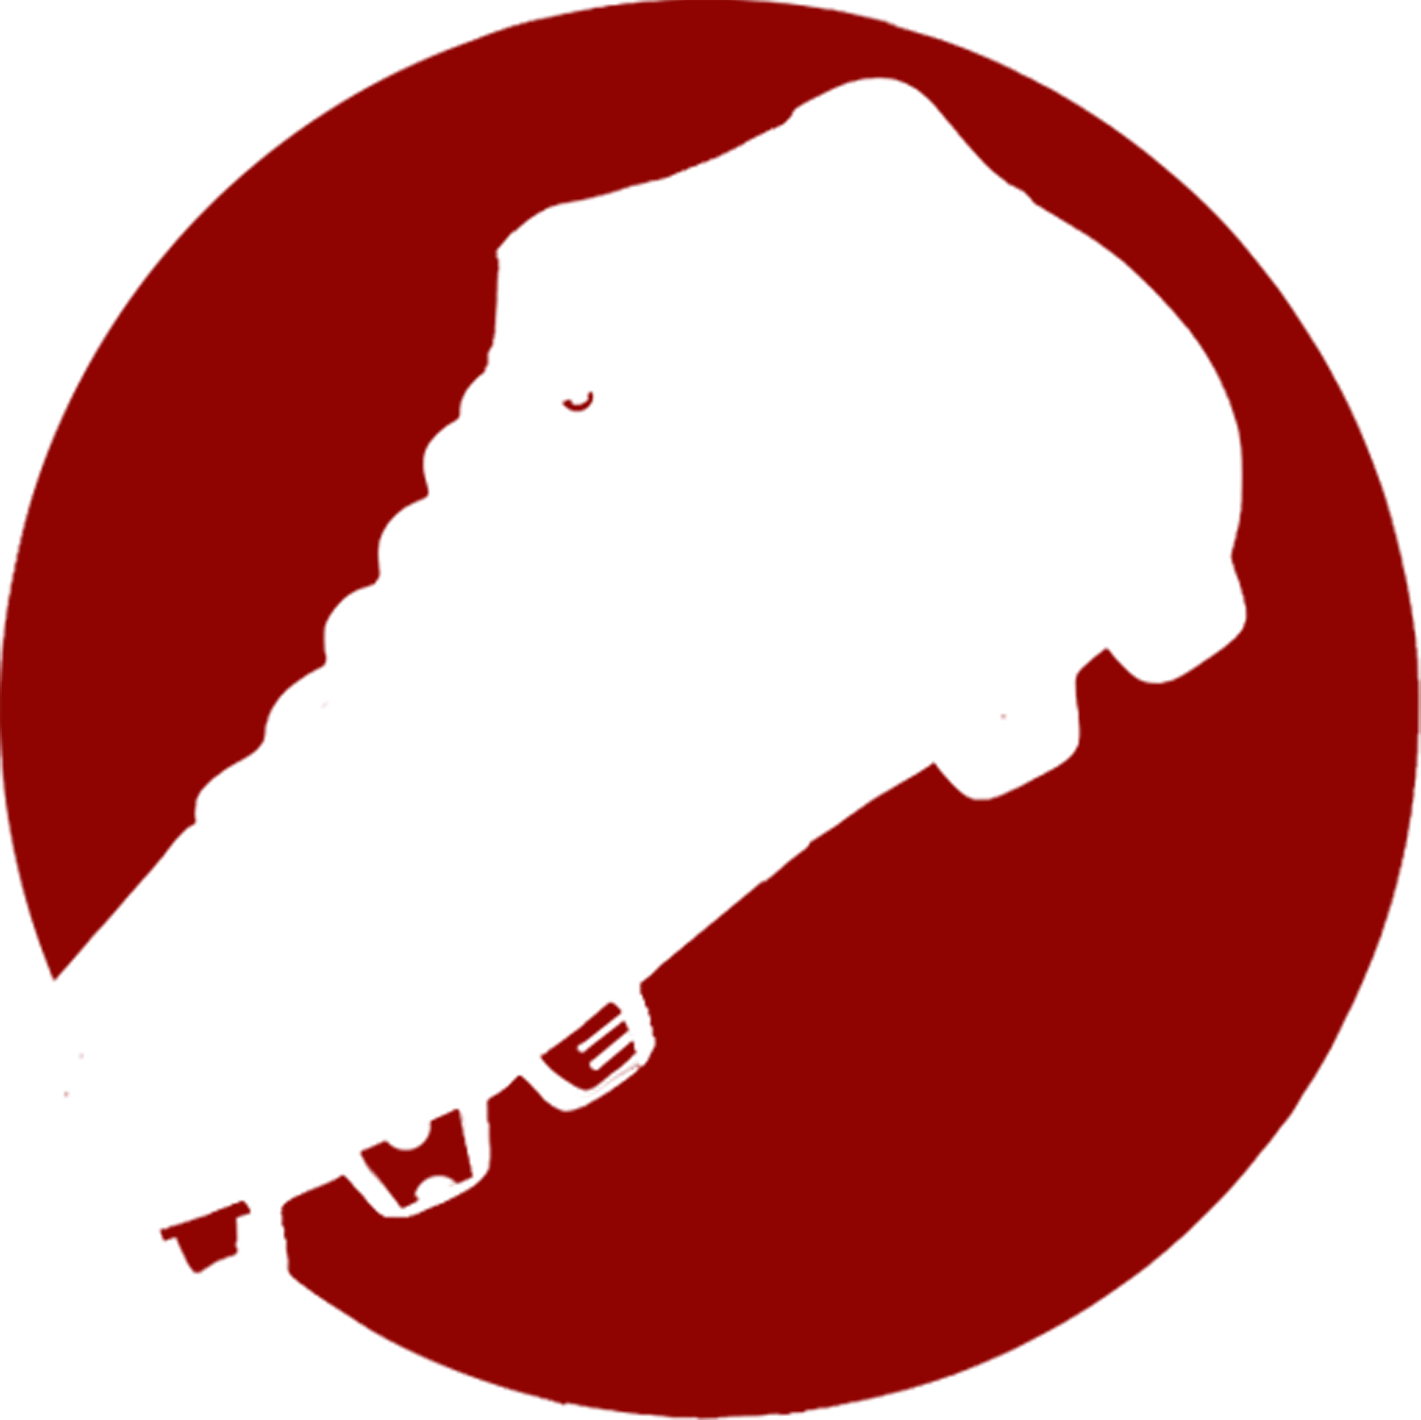
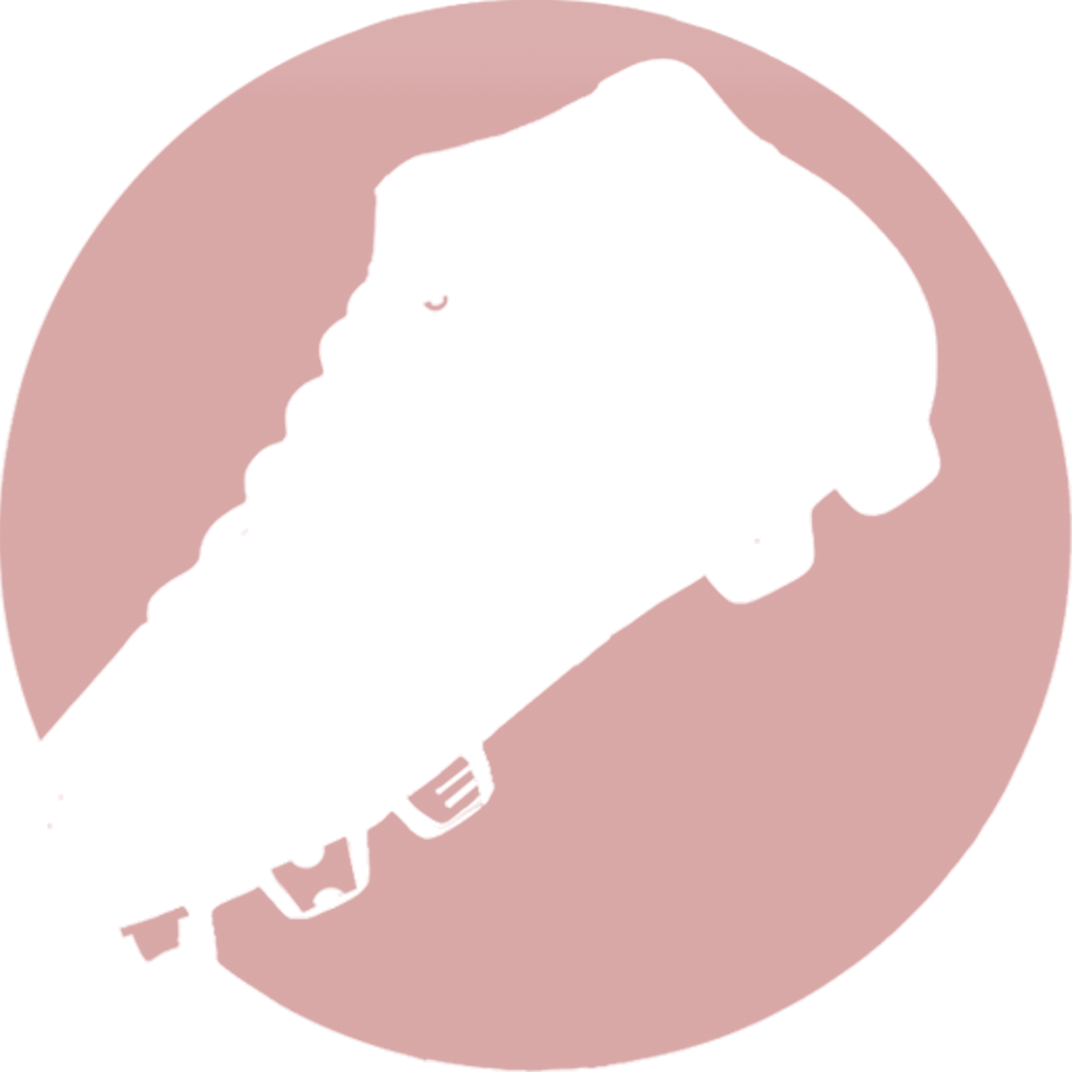
update

diff --git a/src/components/Clubcard.vue b/src/components/Clubcard.vue
@@ -21,28 +21,7 @@
         </div>
         <router-link class="btn btn-primary" to="club-view">View</router-link>
 
-        <div class="trashIcon">
-
-            <svg width="23" height="22" viewBox="0 0 23 22" fill="none" xmlns="http://www.w3.org/2000/svg">
-                <path
-                    d="M19.75 5.48177C16.6975 5.17927 13.6267 5.02344 10.565 5.02344C8.75 5.02344 6.935 5.1151 5.12 5.29844L3.25 5.48177"
-                    fill="#8F0301" />
-                <path
-                    d="M19.75 5.48177C16.6975 5.17927 13.6267 5.02344 10.565 5.02344C8.75 5.02344 6.935 5.1151 5.12 5.29844L3.25 5.48177"
-                    stroke="#8F0301" stroke-width="1.5" stroke-linecap="round" stroke-linejoin="round" />
-                <path
-                    d="M8.29166 4.55551L8.49332 3.35467C8.63999 2.48384 8.74999 1.83301 10.2992 1.83301H12.7008C14.25 1.83301 14.3692 2.52051 14.5067 3.36384L14.7083 4.55551"
-                    stroke="#8F0301" stroke-width="1.5" stroke-linecap="round" stroke-linejoin="round" />
-                <path
-                    d="M17.7792 8.37793L17.1833 17.6088C17.0825 19.0479 17 20.1663 14.4425 20.1663H8.55749C5.99999 20.1663 5.91749 19.0479 5.81666 17.6088L5.22083 8.37793"
-                    stroke="#8F0301" stroke-width="1.5" stroke-linecap="round" stroke-linejoin="round" />
-                <path d="M9.96918 15.125H13.0217" stroke="#8F0301" stroke-width="1.5" stroke-linecap="round"
-                    stroke-linejoin="round" />
-                <path d="M9.20834 11.458H13.7917" stroke="#8F0301" stroke-width="1.5" stroke-linecap="round"
-                    stroke-linejoin="round" />
-            </svg>
-
-        </div>
+       
     </div>
 </template>
 

diff --git a/src/pages/Admin/Clubview.vue b/src/pages/Admin/Clubview.vue
@@ -142,7 +142,7 @@
           </div>
           <div class="col-12">
             <div class="form-group">
-              <label> Phone</label>
+              <label> Phone Number</label>
               <input type="text" class="form-control" />
             </div>
           </div>

diff --git a/src/assets/style/style.css b/src/assets/style/style.css
@@ -1003,7 +1003,7 @@ header.protal_header .main_header .header_option .language .text {
   bottom: 0;
   right: 0;
   width: 260px;
-  opacity: 0.2;
+  opacity: 1;
 }
 .main_banner .heading {
   color: rgba(74, 13, 12, 0.8);

diff --git a/src/assets/style/style.scss b/src/assets/style/style.scss
@@ -916,7 +916,7 @@ header {
         bottom: 0;
         right:0;
         width: 260px;
-        opacity: 0.2;   
+        opacity: 1;   
     }
 
     .heading {
